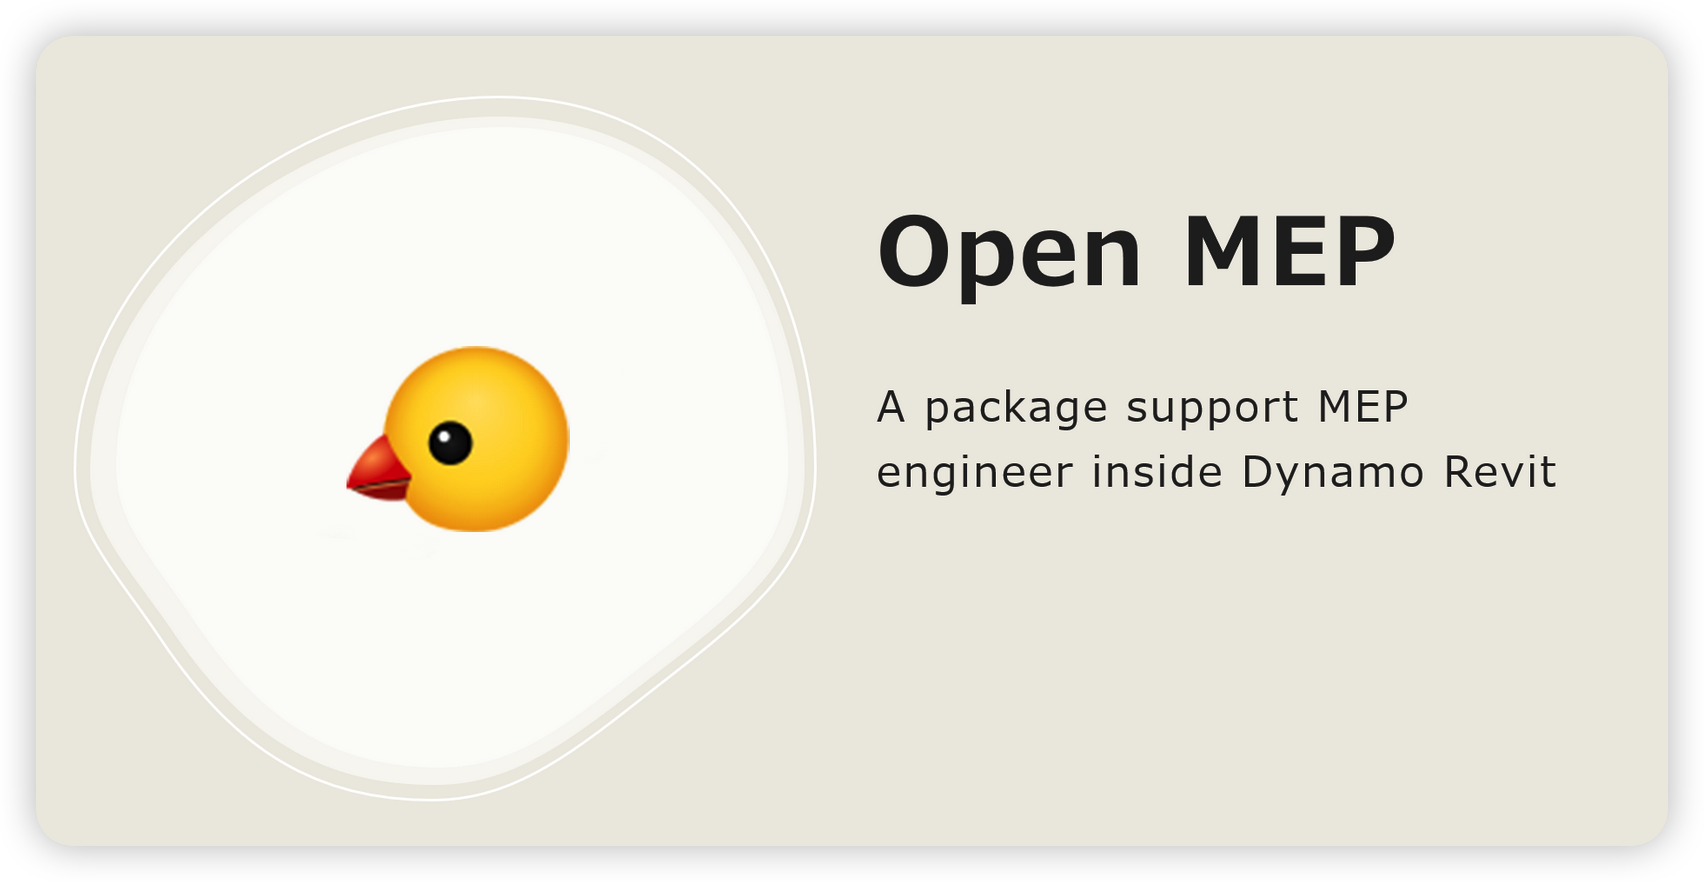
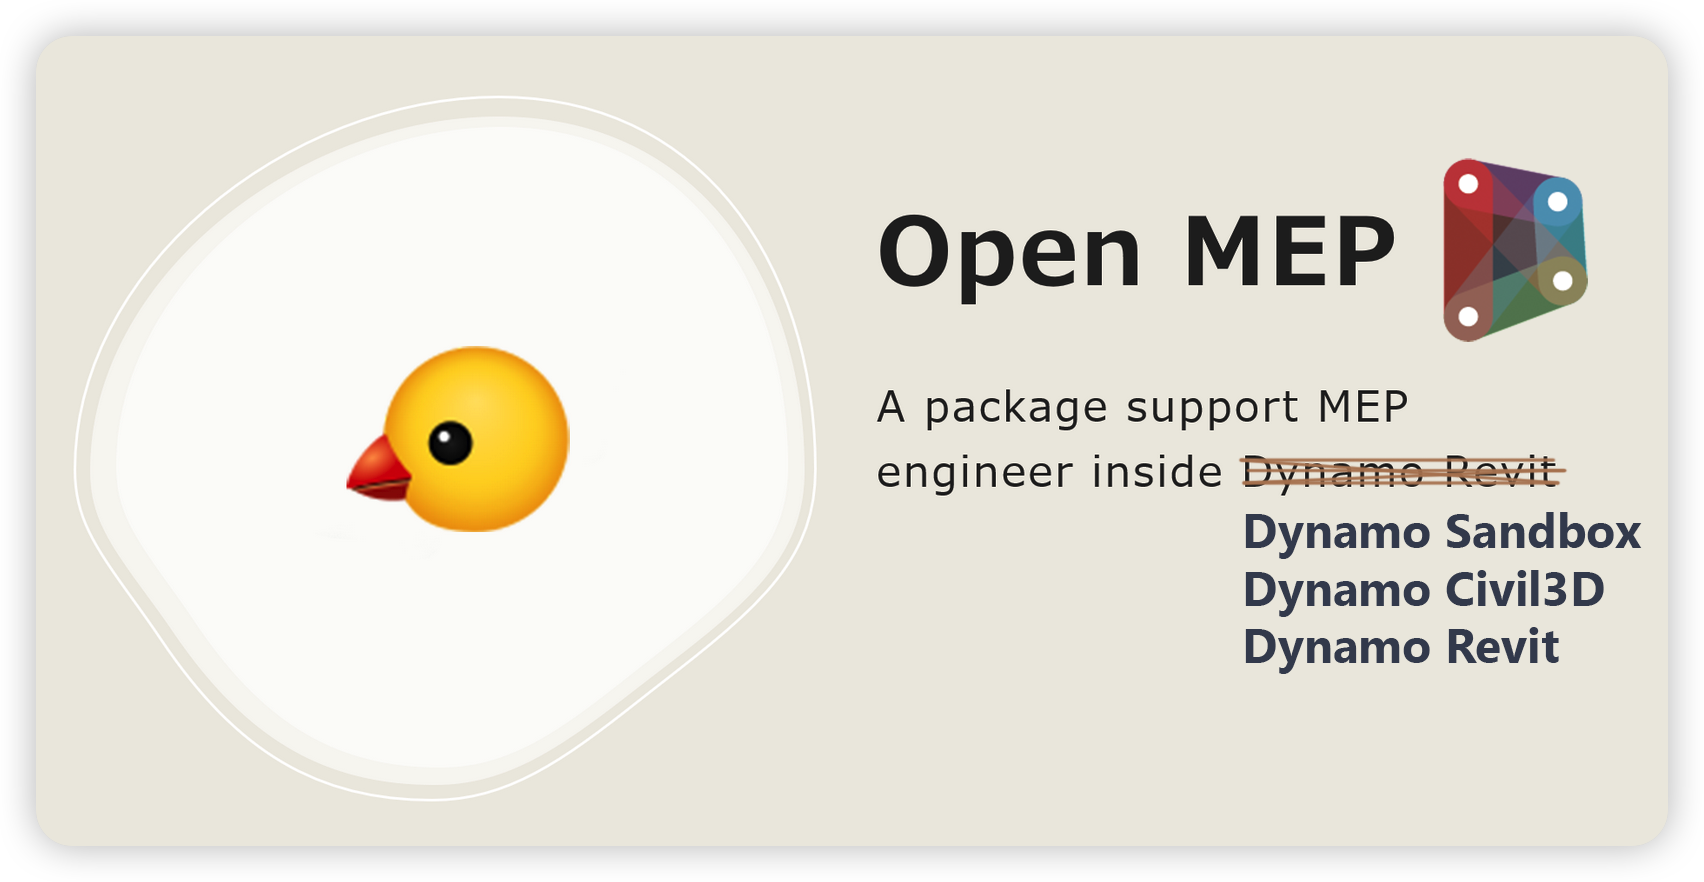
update readme

Changed region(s): [[0.7154, 0.5816, 0.9642, 0.7653], [0.8398, 0.1837, 0.9331, 0.398], [0.7154, 0.5204, 0.9331, 0.551]]

diff --git a/README.md b/README.md
@@ -4,7 +4,7 @@
 
 ![Platform](https://img.shields.io/badge/platform-Windows-lightgray.svg) [![License: MIT](https://img.shields.io/badge/License-MIT-yellow.svg)](https://opensource.org/licenses/MIT)
 
-![ReSharper](https://img.shields.io/badge/ReSharper-2022-yellow) ![Rider](https://img.shields.io/badge/Rider-2022-yellow) ![Visual Studio 2022](https://img.shields.io/badge/Visual_Studio_2022-yellow) ![.NET Framework](https://img.shields.io/badge/.NET_6.0-yellow)
+![ReSharper](https://img.shields.io/badge/ReSharper-2023-yellow) ![Rider](https://img.shields.io/badge/Rider-2023-yellow) ![Visual Studio 2022](https://img.shields.io/badge/Visual_Studio_2022-yellow) ![.NET Framework](https://img.shields.io/badge/.NET_8.0-yellow)
 
 [![Publish](../../actions/workflows/Workflow.yml/badge.svg)](../../actions)
 [![Github All Releases](https://img.shields.io/github/downloads/chuongmep/openmep/total?color=blue&label=Download)]()
@@ -48,6 +48,7 @@ Read more about [Installation](https://chuongmep.github.io/OpenMEP/articles/inst
 
 Some features of this package:
 - [x] Integrated with CAD anywhere with Dynamo Revit, Dynamo Sandbox.
+- [x] Connect Eco Software with Dynamo like Dynamo Sandbox, Dynamo Revit, Dynamo Civil3D,.. 
 - [x] Fast delivery package for MEP Engineer
 - [x] Easy to use and interactive with Dynamo Revit
 - [x] Easy to collaborate with other engineer
